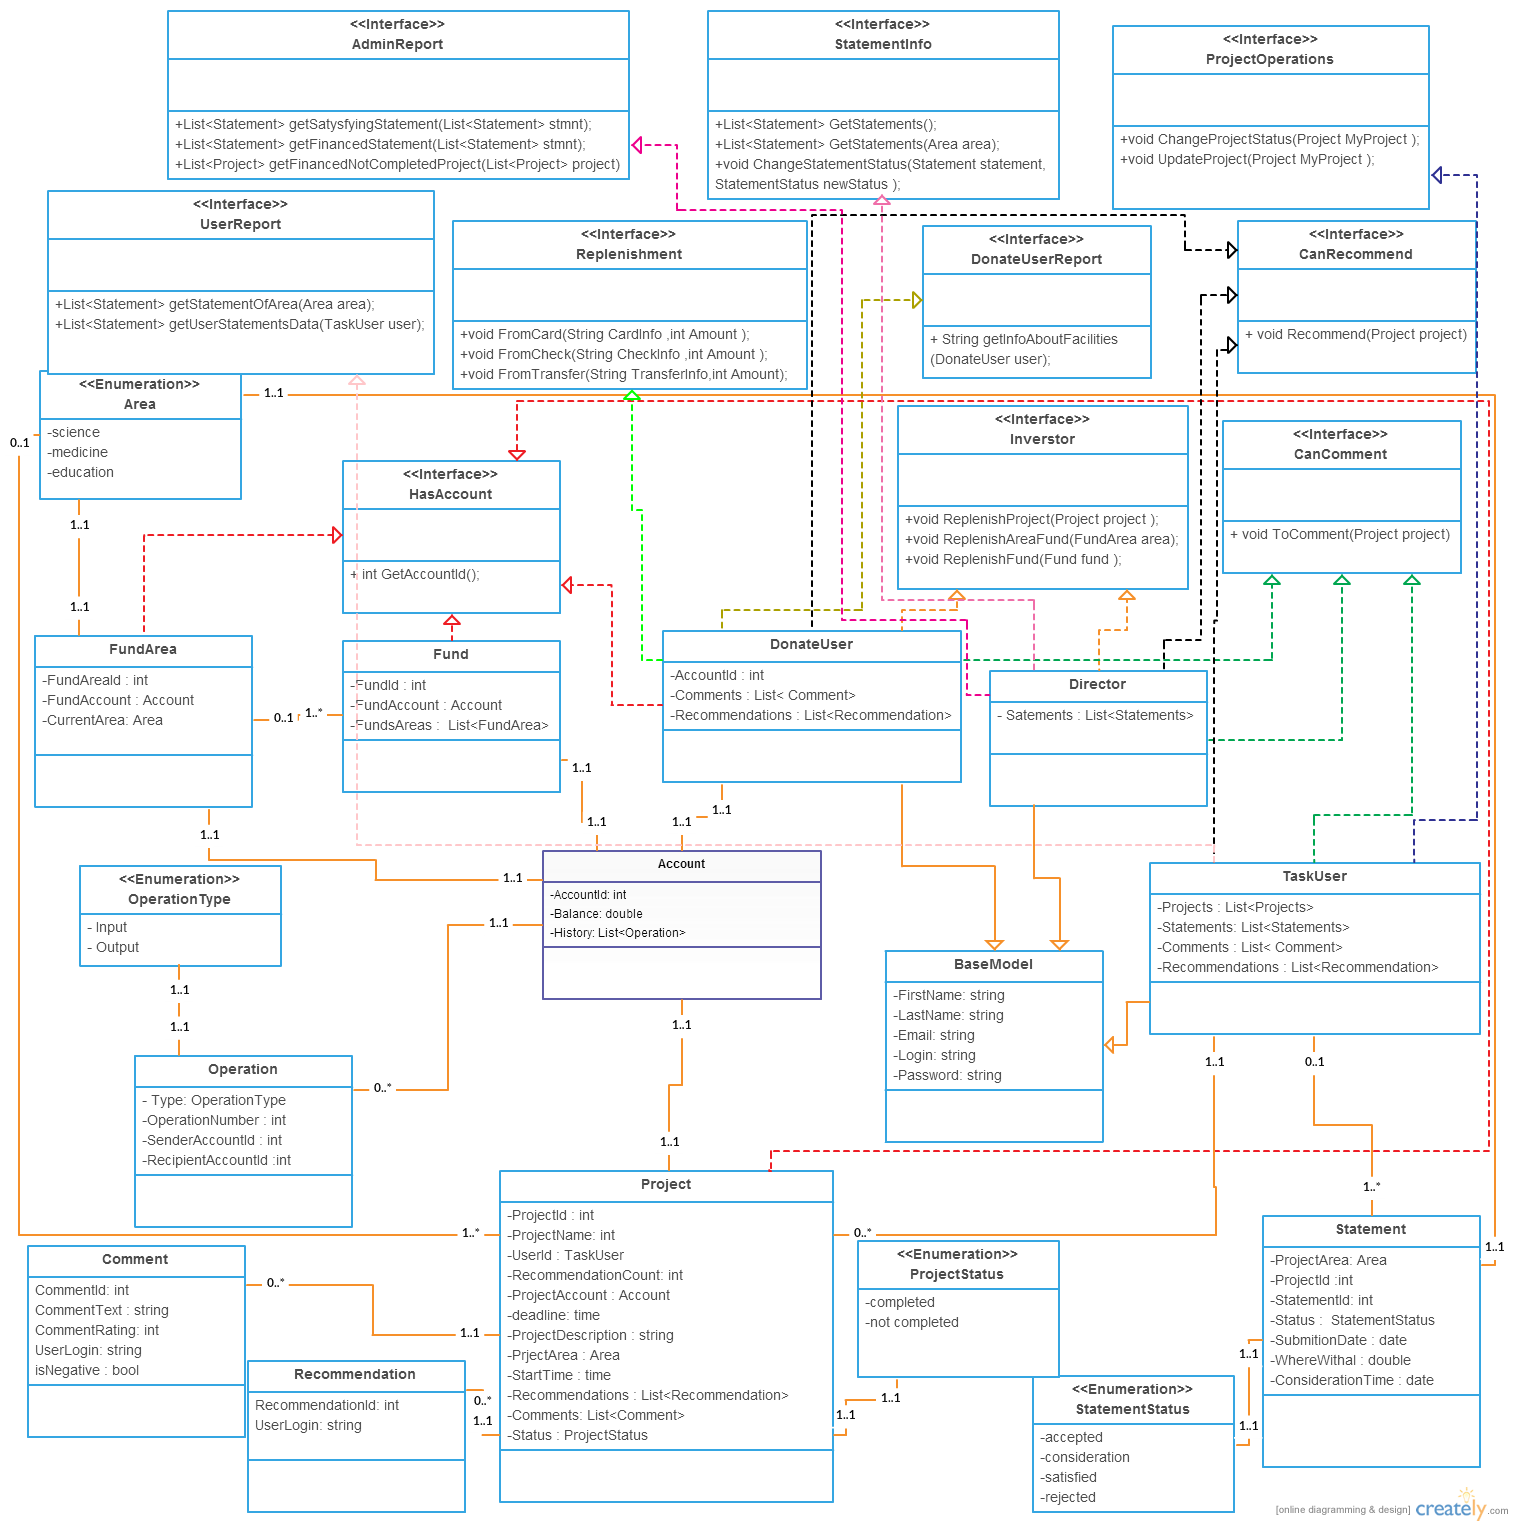
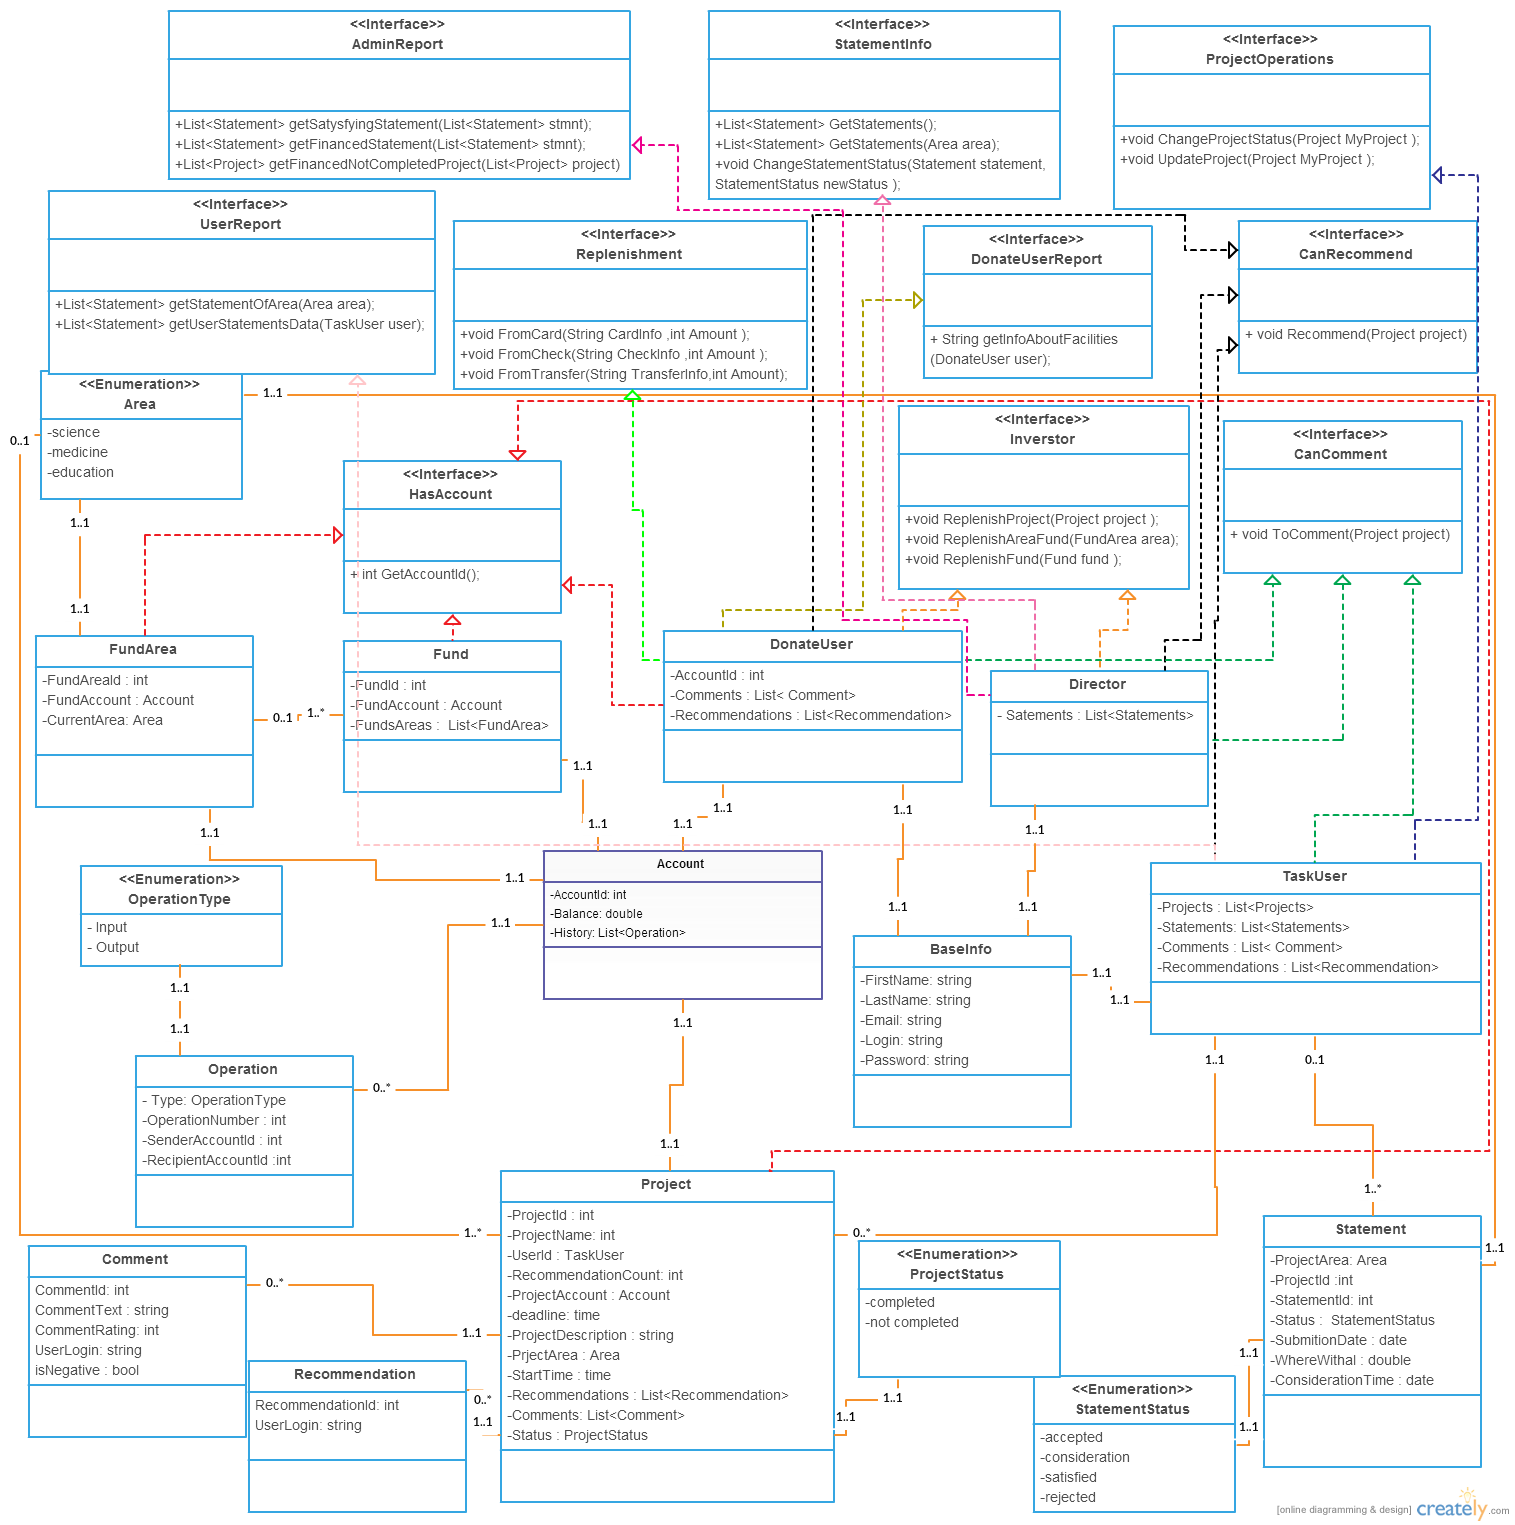
modelUpdate

diff --git a/investmentfund/src/main/java/com/exposit/sjc/paradox/app/repository/dao/BaseInfolDao.java b/investmentfund/src/main/java/com/exposit/sjc/paradox/app/repository/dao/BaseInfolDao.java
@@ -1,0 +1,8 @@
+package com.exposit.sjc.paradox.app.repository.dao;
+
+import com.exposit.sjc.paradox.app.repository.base.GenericDao;
+import com.exposit.sjc.paradox.domain.model.BaseInfo;
+
+public interface BaseInfolDao extends GenericDao<BaseInfo, Integer> {
+
+}

diff --git a/investmentfund/src/main/java/com/exposit/sjc/paradox/domain/model/TaskUser.java b/investmentfund/src/main/java/com/exposit/sjc/paradox/domain/model/TaskUser.java
@@ -5,7 +5,7 @@ import java.util.List;
 import javax.persistence.Entity;
 
 @Entity
-public class TaskUser extends BaseModel {
+public class TaskUser extends BaseInfo {
 	
 	private List<Project> projects;
 	

diff --git a/investmentfund/src/main/java/com/exposit/sjc/paradox/domain/model/DonateUser.java b/investmentfund/src/main/java/com/exposit/sjc/paradox/domain/model/DonateUser.java
@@ -5,7 +5,7 @@ import java.util.List;
 import javax.persistence.Entity;
 
 @Entity
-public class DonateUser extends BaseModel {
+public class DonateUser extends BaseInfo {
 
 	private Integer accountId;
 	

diff --git a/investmentfund/src/main/java/com/exposit/sjc/paradox/domain/model/Director.java b/investmentfund/src/main/java/com/exposit/sjc/paradox/domain/model/Director.java
@@ -5,7 +5,7 @@ import java.util.List;
 import javax.persistence.Entity;
 
 @Entity
-public class Director extends BaseModel {
+public class Director extends BaseInfo {
 	
 	private Integer DirectorId;
 	

diff --git a/investmentfund/src/main/java/com/exposit/sjc/paradox/domain/model/BaseInfo.java b/investmentfund/src/main/java/com/exposit/sjc/paradox/domain/model/BaseInfo.java
@@ -3,7 +3,7 @@ package com.exposit.sjc.paradox.domain.model;
 import javax.persistence.Entity;
 
 @Entity
-public class BaseModel {
+public class BaseInfo {
 	
 	private Integer id;
 	
